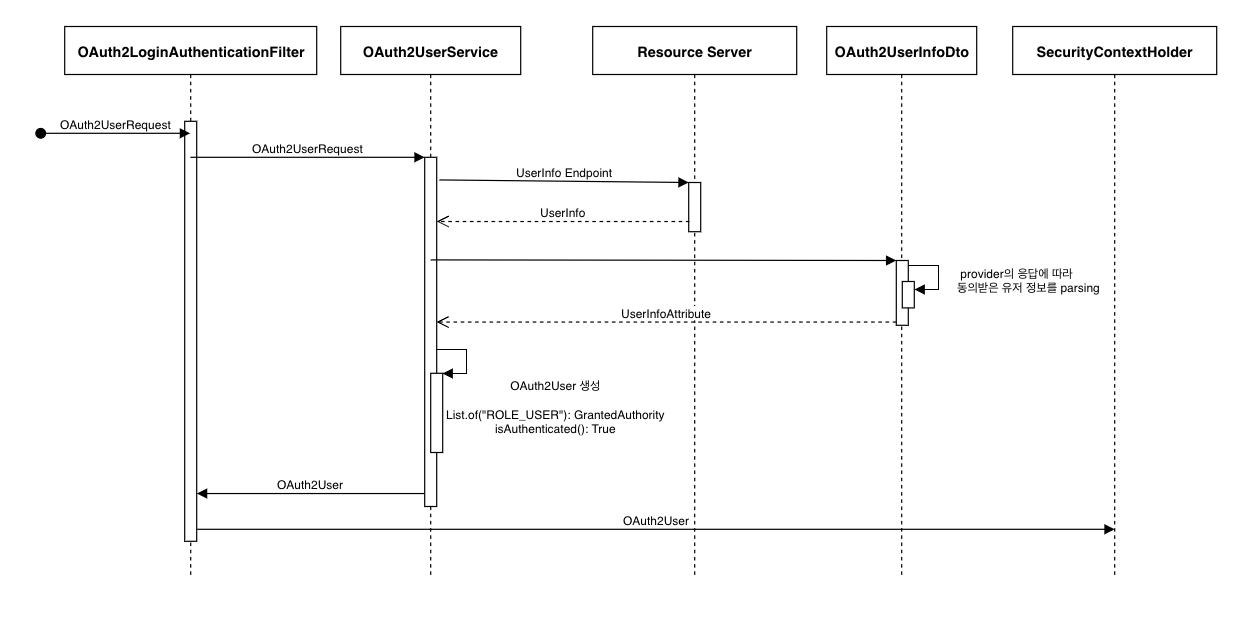
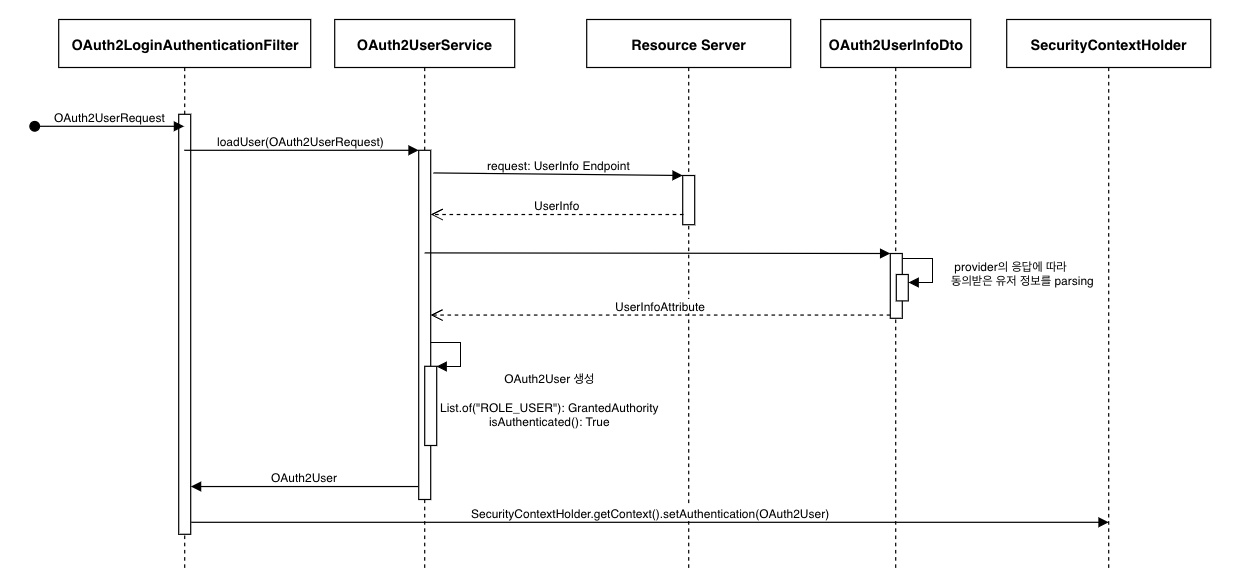
Update: README.md

Changed region(s): [[0.0307, 0.1837, 0.8901, 0.9184], [0.4604, 0.0306, 0.9822, 0.1224], [0.0307, 0.0306, 0.4297, 0.1224]]

diff --git a/README.md b/README.md
@@ -2,5 +2,18 @@
 
 ## Login Flow
 
-![](./images/oauth_flow.jpg)
+### UserInfo endpoint
+
 ![](./images/oauth_flow_After_accessToken.png)
+
+- Authorization Server로부터 access token을 받고 나면 위의 흐름대로 Resource owner의 동의된 정보를 가져오도록 구현
+- 유저 정보가 등록되어 있지 않으면 userService.signUp()으로 user record 생성
+- 성공적으로 SecurityContext에 Principal를 저장하면 OAuth2SuccessHandler에서 JWT를 생성하고 응답
+
+### Validate Token
+
+![](./images/validate_token.png)
+
+- 브라우저의 쿠키에 저장된 token을 이용해서 endpoint로 접근하면 JwtAuthenticationFilter에서 유효성을 검증
+- 검증된 후에는 UsernamePasswordToken을 생성하고 SecurityContextHolder에 저장
+- UsernamePasswordToken은 JWT와 관련 있는 것이 아니라 스프링 시큐리티에서 제공하는 Principal 구현체라는 점을 주의
